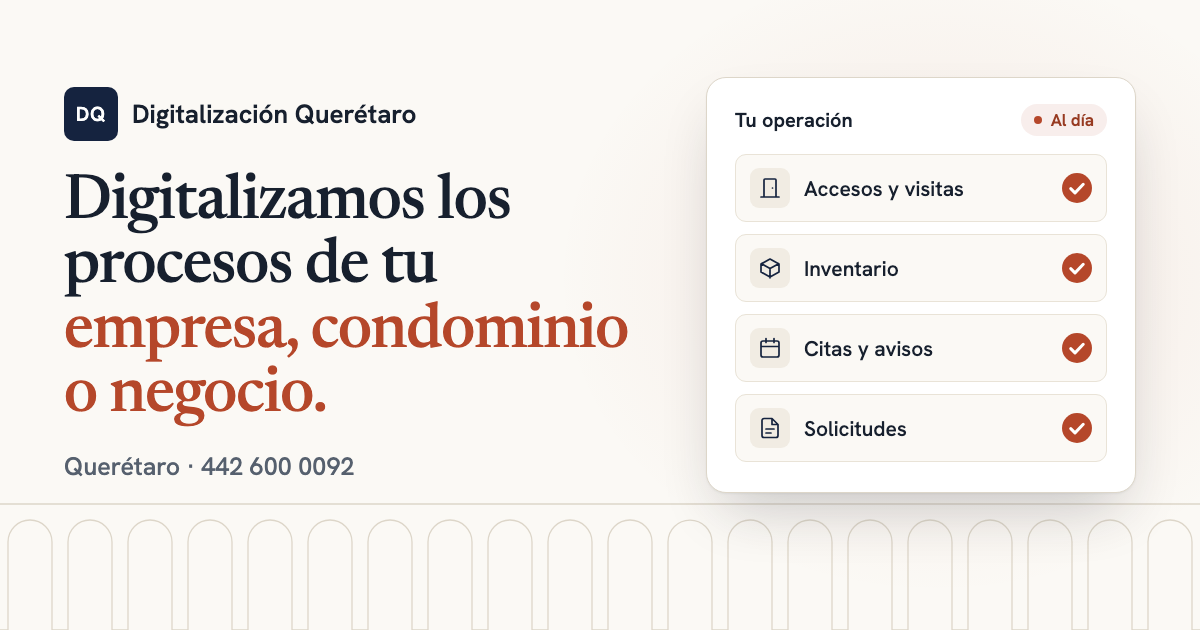
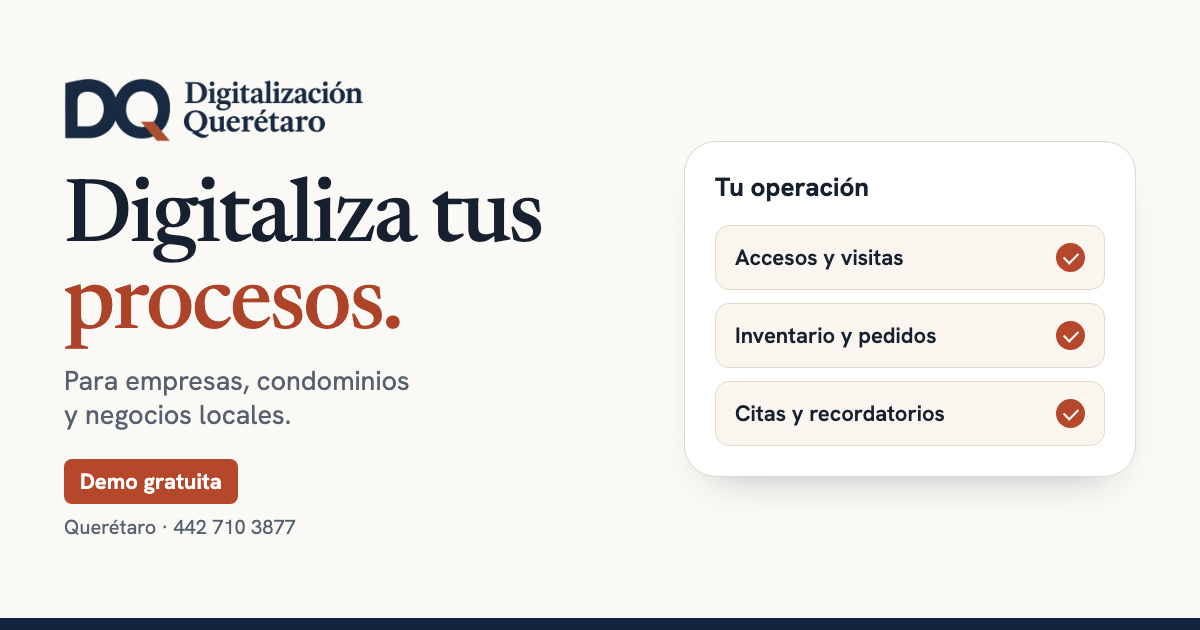
Publica la página legal y destaca la demo gratuita

diff --git a/docs/index.html b/docs/index.html
@@ -5,7 +5,7 @@
   <meta http-equiv="Content-Security-Policy" content="default-src 'self'; script-src 'self'; style-src 'self'; img-src 'self'; font-src 'self'; connect-src 'none'; object-src 'none'; base-uri 'none'; form-action 'none'">
   <meta name="viewport" content="width=device-width, initial-scale=1">
   <title>Digitalización para empresas, condominios y negocios en Querétaro</title>
-  <meta name="description" content="Pasamos a sistemas sencillos lo que tu empresa, condominio o negocio hace hoy en papel, Excel y WhatsApp. Atención local en Querétaro y demo gratuita.">
+  <meta name="description" content="Digitaliza los procesos de tu empresa, condominio o negocio en Querétaro. Mira cómo pasar de papel, Excel y WhatsApp a un sistema sencillo con una demo gratuita.">
   <meta name="robots" content="index, follow, max-image-preview:large">
   <meta name="format-detection" content="telephone=yes">
   <meta name="theme-color" content="#15233f">
@@ -15,18 +15,18 @@
   <meta property="og:site_name" content="Digitalización Querétaro">
   <meta property="og:locale" content="es_MX">
   <meta property="og:title" content="Digitalización para empresas, condominios y negocios en Querétaro">
-  <meta property="og:description" content="Pasamos a sistemas sencillos lo que hoy se hace en papel, Excel y WhatsApp. Atención local y demo gratuita.">
-  <meta property="og:image" content="https://digitalizacionqueretaro.com/assets/og-image.png">
+  <meta property="og:description" content="Mira cómo pasar de papel, Excel y WhatsApp a un sistema sencillo. Solicita una demo gratuita en Querétaro.">
+  <meta property="og:image" content="https://digitalizacionqueretaro.com/assets/og-image.png?v=2">
   <meta property="og:image:width" content="1200">
   <meta property="og:image:height" content="630">
-  <meta property="og:image:alt" content="Digitalización Querétaro: digitalizamos los procesos de tu empresa, condominio o negocio.">
+  <meta property="og:image:alt" content="Digitalización Querétaro. Digitaliza tus procesos. Demo gratuita.">
   <meta name="twitter:card" content="summary_large_image">
   <link rel="icon" href="assets/icono-dq.png" type="image/png" sizes="64x64">
   <link rel="preload" href="assets/fonts/newsreader-display-latin.woff2" as="font" type="font/woff2" crossorigin>
   <link rel="preload" href="assets/fonts/hanken-grotesk-latin-wght-normal.woff2" as="font" type="font/woff2" crossorigin>
   <link rel="stylesheet" href="styles.css">
   <script type="application/ld+json">
-{"@context":"https://schema.org","@graph":[{"@type":"WebSite","@id":"https://digitalizacionqueretaro.com/#website","url":"https://digitalizacionqueretaro.com/","name":"Digitalización Querétaro","inLanguage":"es-MX","publisher":{"@id":"https://digitalizacionqueretaro.com/#business"}},{"@type":"LocalBusiness","@id":"https://digitalizacionqueretaro.com/#business","name":"Digitalización Querétaro","url":"https://digitalizacionqueretaro.com/","email":"contacto@digitalizacionqueretaro.com","telephone":"+52 442 710 3877","image":"https://digitalizacionqueretaro.com/assets/og-image.png","logo":"https://digitalizacionqueretaro.com/assets/perfil-dq.jpg","address":{"@type":"PostalAddress","addressLocality":"Querétaro","addressRegion":"Querétaro","addressCountry":"MX"},"areaServed":{"@type":"City","name":"Querétaro"},"description":"Servicio local de digitalización para empresas, condominios y negocios locales en Querétaro.","contactPoint":{"@type":"ContactPoint","telephone":"+52 442 710 3877","contactType":"sales","areaServed":"MX","availableLanguage":["es"]},"hasOfferCatalog":{"@type":"OfferCatalog","name":"Servicios de digitalización en Querétaro","itemListElement":[{"@type":"Offer","itemOffered":{"@type":"Service","name":"Solicitudes, aprobaciones y reportes para empresas"}},{"@type":"Offer","itemOffered":{"@type":"Service","name":"Control de acceso y visitas para condominios"}},{"@type":"Offer","itemOffered":{"@type":"Service","name":"Inventario y pedidos para negocios"}},{"@type":"Offer","itemOffered":{"@type":"Service","name":"Citas y recordatorios"}},{"@type":"Offer","itemOffered":{"@type":"Service","name":"Comandas y reservas"}},{"@type":"Offer","itemOffered":{"@type":"Service","name":"Asistentes con IA"}}]}}]}
+{"@context":"https://schema.org","@type":"WebSite","@id":"https://digitalizacionqueretaro.com/#website","url":"https://digitalizacionqueretaro.com/","name":"Digitalización Querétaro","inLanguage":"es-MX","description":"Proyecto independiente que muestra demos de digitalización para empresas, condominios y negocios en Querétaro."}
   </script>
   <script src="app.js"></script>
 </head>
@@ -42,10 +42,10 @@
       <nav class="head-nav" aria-label="Principal">
         <a href="#para-quien">Para quién</a>
         <a href="#que-cambia">Qué cambia</a>
-        <a href="#como-trabajamos">Cómo trabajamos</a>
+        <a href="#como-trabajamos">Cómo es la demo</a>
         <a href="#contacto">Contacto</a>
       </nav>
-      <a class="btn btn-small" href="https://wa.me/524427103877" data-wa="Hola, quiero digitalizar un proceso. ¿Podemos hablar?" target="_blank" rel="noopener noreferrer">WhatsApp</a>
+      <a class="btn btn-small" href="https://wa.me/524427103877" data-wa="Hola, me gustaría conocer la demo gratuita. ¿Podemos hablar?" target="_blank" rel="noopener noreferrer">WhatsApp</a>
     </div>
   </header>
 
@@ -56,12 +56,12 @@
         <div class="wrap hero-grid">
           <div class="hero-copy">
             <p class="eyebrow">Atención local en Querétaro</p>
-            <h1>Digitalizamos los procesos de tu <span class="h1-accent">empresa, condominio o&nbsp;negocio.</span></h1>
-            <p class="lead">Pasamos a sistemas sencillos lo que hoy se hace en papel, Excel y WhatsApp.</p>
+            <h1>Digitaliza los procesos de tu <span class="h1-accent">empresa, condominio o&nbsp;negocio.</span></h1>
+            <p class="lead">Mira cómo pasar de papel, Excel y WhatsApp a un sistema sencillo para tu equipo.</p>
             <div class="actions">
-              <a class="btn" href="https://wa.me/524427103877" data-wa="Hola, quiero digitalizar un proceso. ¿Podemos hablar?" target="_blank" rel="noopener noreferrer">
+              <a class="btn" href="https://wa.me/524427103877" data-wa="Hola, me gustaría conocer la demo gratuita. ¿Podemos hablar?" target="_blank" rel="noopener noreferrer">
                 <svg class="btn-icon" viewBox="0 0 24 24" aria-hidden="true"><path d="M21 11.5a8.38 8.38 0 0 1-.9 3.8 8.5 8.5 0 0 1-7.6 4.7 8.38 8.38 0 0 1-3.8-.9L3 21l1.9-5.7a8.38 8.38 0 0 1-.9-3.8 8.5 8.5 0 0 1 4.7-7.6 8.38 8.38 0 0 1 3.8-.9h.5a8.48 8.48 0 0 1 8 8v.5z"/></svg>
-                Escríbenos por WhatsApp
+                Solicitar demo gratuita
               </a>
               <a class="btn btn-outline" href="tel:+524427103877">
                 <svg class="btn-icon" viewBox="0 0 24 24" aria-hidden="true"><path d="M22 16.92v3a2 2 0 0 1-2.18 2 19.79 19.79 0 0 1-8.63-3.07 19.5 19.5 0 0 1-6-6 19.79 19.79 0 0 1-3.07-8.67A2 2 0 0 1 4.11 2h3a2 2 0 0 1 2 1.72c.127.96.361 1.903.7 2.81a2 2 0 0 1-.45 2.11L8.09 9.91a16 16 0 0 0 6 6l1.27-1.27a2 2 0 0 1 2.11-.45c.907.339 1.85.573 2.81.7A2 2 0 0 1 22 16.92z"/></svg>
@@ -119,17 +119,17 @@
 
       <div class="wrap">
         <ul class="facts" data-reveal>
-          <li><strong>Atención local</strong><span>Visitas y seguimiento en Querétaro.</span></li>
-          <li><strong>A medida</strong><span>Soluciones personalizadas y sin suscripciones.</span></li>
-          <li><strong>Demo gratuita</strong><span>Te mostramos una demo sin compromiso.</span></li>
-          <li><strong>Para todos</strong><span>Te enseñamos a ti y a tu equipo a usarlo.</span></li>
+          <li><strong>Atención local</strong><span>Pláticas y demos en Querétaro.</span></li>
+          <li><strong>Para tu operación</strong><span>Vemos una tarea que quieras simplificar.</span></li>
+          <li><strong>Demo gratuita</strong><span>Prueba cómo funcionaría, sin compromiso.</span></li>
+          <li><strong>Para tu equipo</strong><span>Recorran juntos el proceso paso a paso.</span></li>
         </ul>
       </div>
     </section>
 
     <section class="section" id="para-quien" aria-labelledby="para-quien-titulo">
       <div class="wrap">
-        <h2 id="para-quien-titulo" data-reveal>Para quién trabajamos.</h2>
+        <h2 id="para-quien-titulo" data-reveal>Qué procesos puedes digitalizar.</h2>
         <div class="audience" data-reveal>
           <article>
             <svg class="icon" viewBox="0 0 48 48" aria-hidden="true">
@@ -181,7 +181,7 @@
             </ul>
           </article>
         </div>
-        <p class="also" data-reveal>También implementamos asistentes con IA para atención inicial, preguntas frecuentes y reservas.</p>
+        <p class="also" data-reveal>También puedes ver ejemplos de asistentes con IA para atención inicial, preguntas frecuentes y reservas.</p>
       </div>
     </section>
 
@@ -189,7 +189,7 @@
       <div class="wrap compare-grid">
         <h2 id="que-cambia-titulo" data-reveal>Qué cambia en tu día a día.</h2>
         <ul class="compare">
-          <li class="compare-head" aria-hidden="true"><span>Antes</span><span></span><span>Con tu sistema</span></li>
+          <li class="compare-head" aria-hidden="true"><span>Antes</span><span></span><span>Con un sistema</span></li>
           <li data-reveal>
             <span class="before"><span class="sr-only">Antes: </span><span class="strike">Papel y hojas sueltas</span></span>
             <svg class="arrow" viewBox="0 0 24 24" aria-hidden="true"><path d="M4 12h15M13 6l6 6-6 6"/></svg>
@@ -216,23 +216,23 @@
 
     <section class="section" id="como-trabajamos" aria-labelledby="como-trabajamos-titulo">
       <div class="wrap">
-        <h2 id="como-trabajamos-titulo" data-reveal>Cómo trabajamos.</h2>
+        <h2 id="como-trabajamos-titulo" data-reveal>Cómo funciona la demo.</h2>
         <ol class="steps" data-reveal>
           <li>
-            <h3>Diagnóstico</h3>
+            <h3>Plática inicial</h3>
             <p>Revisamos tu proceso actual y vemos qué conviene digitalizar primero.</p>
           </li>
           <li>
-            <h3>Propuesta y demo</h3>
-            <p>Definimos la propuesta y te mostramos una versión preliminar, sin compromiso.</p>
+            <h3>Un caso concreto</h3>
+            <p>Elegimos una tarea de tu operación y la reproducimos con datos de ejemplo.</p>
           </li>
           <li>
-            <h3>Implementación</h3>
-            <p>Entregamos la versión final, la probamos con tu equipo y ajustamos.</p>
+            <h3>Demo gratuita</h3>
+            <p>Te mostramos el prototipo y recorremos el proceso paso a paso.</p>
           </li>
           <li>
-            <h3>Soporte</h3>
-            <p>Damos seguimiento, resolvemos dudas y mejoramos según lo necesites.</p>
+            <h3>Revisión contigo</h3>
+            <p>Resolvemos tus dudas y vemos qué podría simplificarle el trabajo a tu equipo.</p>
           </li>
         </ol>
       </div>
@@ -245,7 +245,7 @@
           <p>En una primera plática vemos qué conviene digitalizar, qué puede esperar y cómo empezar.</p>
         </div>
         <div class="contact-ways" data-reveal>
-          <a class="btn btn-light" href="https://wa.me/524427103877" data-wa="Hola, quiero digitalizar un proceso. ¿Podemos hablar?" target="_blank" rel="noopener noreferrer">
+          <a class="btn btn-light" href="https://wa.me/524427103877" data-wa="Hola, me gustaría conocer la demo gratuita. ¿Podemos hablar?" target="_blank" rel="noopener noreferrer">
             <svg class="btn-icon" viewBox="0 0 24 24" aria-hidden="true"><path d="M21 11.5a8.38 8.38 0 0 1-.9 3.8 8.5 8.5 0 0 1-7.6 4.7 8.38 8.38 0 0 1-3.8-.9L3 21l1.9-5.7a8.38 8.38 0 0 1-.9-3.8 8.5 8.5 0 0 1 4.7-7.6 8.38 8.38 0 0 1 3.8-.9h.5a8.48 8.48 0 0 1 8 8v.5z"/></svg>
             Escríbenos por WhatsApp
           </a>
@@ -263,7 +263,10 @@
         <img src="assets/perfil-dq.jpg" alt="" width="48" height="48" loading="lazy">
         <span>© <span data-year>2026</span> Digitalización Querétaro. Querétaro, México.</span>
       </div>
-      <span>Aviso de privacidad disponible bajo solicitud.</span>
+      <nav class="foot-links" aria-label="Información legal">
+        <a href="informacion-legal.html#quienes-somos">Quiénes somos</a>
+        <a href="informacion-legal.html#privacidad">Privacidad</a>
+      </nav>
     </div>
   </footer>
 </body>

diff --git a/docs/informacion-legal.html b/docs/informacion-legal.html
@@ -1,0 +1,65 @@
+<!doctype html>
+<html lang="es-MX">
+<head>
+  <meta charset="utf-8">
+  <meta http-equiv="Content-Security-Policy" content="default-src 'self'; script-src 'none'; style-src 'self'; img-src 'self'; font-src 'self'; connect-src 'none'; object-src 'none'; base-uri 'none'; form-action 'none'">
+  <meta name="viewport" content="width=device-width, initial-scale=1">
+  <title>Quiénes somos y privacidad | Digitalización Querétaro</title>
+  <meta name="description" content="Alcance de las demostraciones de Digitalización Querétaro y uso de los datos de contacto.">
+  <meta name="theme-color" content="#15233f">
+  <link rel="canonical" href="https://digitalizacionqueretaro.com/informacion-legal.html">
+  <link rel="icon" href="assets/icono-dq.png" type="image/png" sizes="64x64">
+  <link rel="stylesheet" href="styles.css">
+</head>
+<body>
+  <a class="skip" href="#contenido">Saltar al contenido</a>
+  <header class="site-head">
+    <div class="wrap head-row">
+      <a class="brand" href="./" aria-label="Digitalización Querétaro, inicio">
+        <img src="assets/logo-dq.webp" alt="Digitalización Querétaro" width="690" height="148">
+      </a>
+    </div>
+  </header>
+  <main class="section" id="contenido">
+    <div class="wrap legal-content">
+      <h1>Información legal</h1>
+      <nav class="legal-index" aria-label="En esta página">
+        <a href="#quienes-somos">Quiénes somos</a>
+        <a href="#privacidad">Privacidad</a>
+      </nav>
+
+      <section id="quienes-somos" aria-labelledby="titulo-proyecto">
+        <h2 id="titulo-proyecto">Quiénes somos</h2>
+        <p>Digitalización Querétaro reúne proyectos personales de software. Es una iniciativa independiente que nace del interés por aprender, explorar el código abierto y compartir soluciones para tareas cotidianas de empresas, condominios y negocios locales. Si un proyecto se publica como código abierto, su licencia establece las condiciones para usar, modificar y compartir el código.</p>
+        <p>La actividad disponible a través de este sitio se limita a una plática inicial y a demostraciones, ambas sin costo y sin compromiso. En las demostraciones usamos prototipos con datos de ejemplo para ilustrar cómo podría funcionar un proceso. La confirmación de una cita se refiere exclusivamente a la actividad acordada.</p>
+        <p>Cualquier colaboración que implique desarrollo a medida, instalación, puesta en operación o soporte se evalúa por separado. Requiere un acuerdo previo por escrito, aceptado expresamente por ambas partes, que defina el alcance, los plazos y las responsabilidades de cada una.</p>
+      </section>
+
+      <section id="privacidad" aria-labelledby="titulo-privacidad">
+        <h2 id="titulo-privacidad">Privacidad</h2>
+        <h3>Datos de contacto y conservación</h3>
+        <p>Al comunicarte por WhatsApp, teléfono o correo, usamos tu número o dirección de correo, el nombre que compartas y la información de tu consulta para responderte y, si lo pides, coordinar una demo. Para describir tu proceso, usa ejemplos con datos ficticios.</p>
+        <p>Los mensajes y registros de contacto se conservan únicamente en los canales de comunicación utilizados. Se eliminan de las cuentas del proyecto en un plazo de 5 a 90 días, según el seguimiento que requiera la consulta.</p>
+
+        <h3>Navegación y servicios externos</h3>
+        <p>La web es estática y funciona sin formularios, cookies ni herramientas propias de analítica. <a href="https://docs.github.com/es/pages/getting-started-with-github-pages/what-is-github-pages">GitHub Pages</a> registra la dirección IP por seguridad. Si eliges escribir por WhatsApp, se aplica también la <a href="https://www.whatsapp.com/legal/privacy-policy">política de privacidad de WhatsApp</a>.</p>
+
+        <h3>Consultas y solicitudes de privacidad</h3>
+        <p>Para consultas sobre esta página o el uso de tus datos, escribe a <a href="mailto:contacto@digitalizacionqueretaro.com">contacto@digitalizacionqueretaro.com</a>. Puedes solicitar acceso, rectificación, cancelación u oposición, limitar el uso o divulgación de tus datos, o revocar tu consentimiento. Indica qué solicitas y cómo podemos localizar tu comunicación. Si necesitas ejercer un derecho de privacidad, te indicaremos por correo los pasos para acreditar tu identidad y dar trámite a la solicitud.</p>
+        <p>Las actualizaciones a esta información se publican en esta página.</p>
+      </section>
+    </div>
+  </main>
+  <footer class="site-foot">
+    <div class="wrap foot-row">
+      <div class="foot-brand">
+        <img src="assets/perfil-dq.jpg" alt="" width="48" height="48" loading="lazy">
+        <span>Digitalización Querétaro. Querétaro, México.</span>
+      </div>
+      <nav class="foot-links" aria-label="Volver al sitio">
+        <a href="./">Volver al inicio</a>
+      </nav>
+    </div>
+  </footer>
+</body>
+</html>

diff --git a/docs/styles.css b/docs/styles.css
@@ -1104,6 +1104,62 @@ a {
   border-radius: 50%;
 }
 
+.foot-links {
+  display: flex;
+  flex-wrap: wrap;
+  gap: 4px 20px;
+}
+
+.foot-links a {
+  padding-block: 4px;
+  text-underline-offset: 0.2em;
+}
+
+.foot-links a:hover {
+  color: #fff;
+}
+
+.foot-links a:focus-visible {
+  outline-color: #fff;
+}
+
+/* Información legal */
+
+.legal-content {
+  width: min(100%, 780px);
+  overflow-wrap: anywhere;
+}
+
+.legal-index {
+  display: flex;
+  flex-wrap: wrap;
+  gap: 8px 24px;
+  margin-block: 16px 40px;
+}
+
+.legal-content section + section {
+  margin-top: 36px;
+  padding-top: 36px;
+  border-top: 1px solid var(--line);
+}
+
+.legal-content h2 {
+  margin-bottom: 12px;
+  font-size: clamp(1.875rem, 1.5rem + 1.7vw, 2.5rem);
+}
+
+.legal-content h3 {
+  margin-block: 22px 6px;
+}
+
+.legal-content p + p {
+  margin-top: 12px;
+}
+
+.legal-content a {
+  text-underline-offset: 0.2em;
+}
+
 /* Aparición al hacer scroll: solo se oculta si hay JavaScript */
 
 h2[data-reveal],
